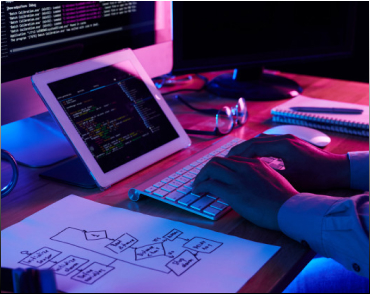
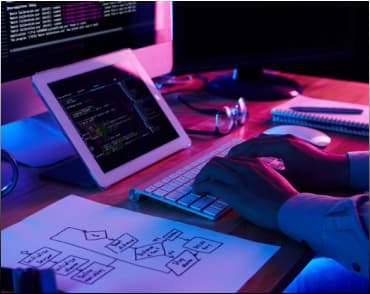
Заливает картинку героя

diff --git a/CSS/styles.css b/CSS/styles.css
@@ -89,12 +89,9 @@ img {
     display: block;
     max-width: 100%;
     height: auto;
+    object-fit: cover;
+    object-position: center;
 }
-
-/* p {
-    margin-top: 0;
-    margin-bottom: 0;
-} */
 
 :root {
     --main-text-color: rgba(117, 117, 117, 1);
@@ -225,8 +222,21 @@ img {
 
 .hero {
     text-align: center;
-    background-color: var(--dark-bg);
+    background-color: #c4c4c4;
+    background-image: radial-gradient(
+            circle at center,
+            rgba(196, 196, 196, 0.2),
+            rgba(47, 48, 58, 0.6)
+        ),
+        url(../images/img14.jpg);
+    background-size: 1600px 600px;
+    background-repeat: no-repeat;
 }
+
+/* .hero-container {
+    background-image: url(../images/img14.jpg);
+    background-size: 1600px 600px;
+} */
 
 .hero-content {
     display: flex;

diff --git a/index.html b/index.html
@@ -54,6 +54,7 @@
         <section class="section-features">
             <div class="container features-container">
                 <ul class="list features-list">
+
                     <li class="contant-box">
                         <h2 class="section-title-features">Внимание к деталям</h2>
                         <p>Идейные соображения, а также начало повседневной работы по формированию позиции.</p>
